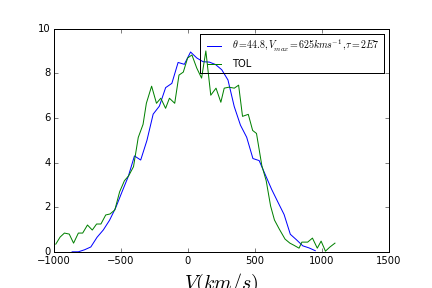
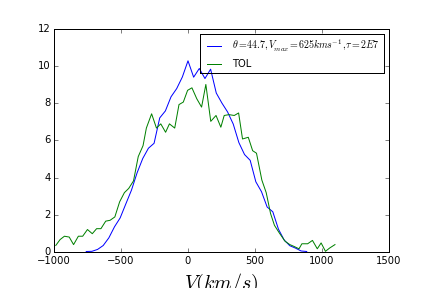
fixing kz definition

diff --git a/code/viewing_angle.py b/code/viewing_angle.py
@@ -15,7 +15,7 @@ def reading_data(filename):
 
 def viewing_angle(filename, angle):
     kz, x = reading_data(filename)
-    k = angle/90.0
+    k = np.cos((90-angle)*np.pi/180.)
     index = np.where((abs(kz)<(k+0.1)) & (abs(kz)>(k-0.1)))
     nbins =40
     x = x[index]
